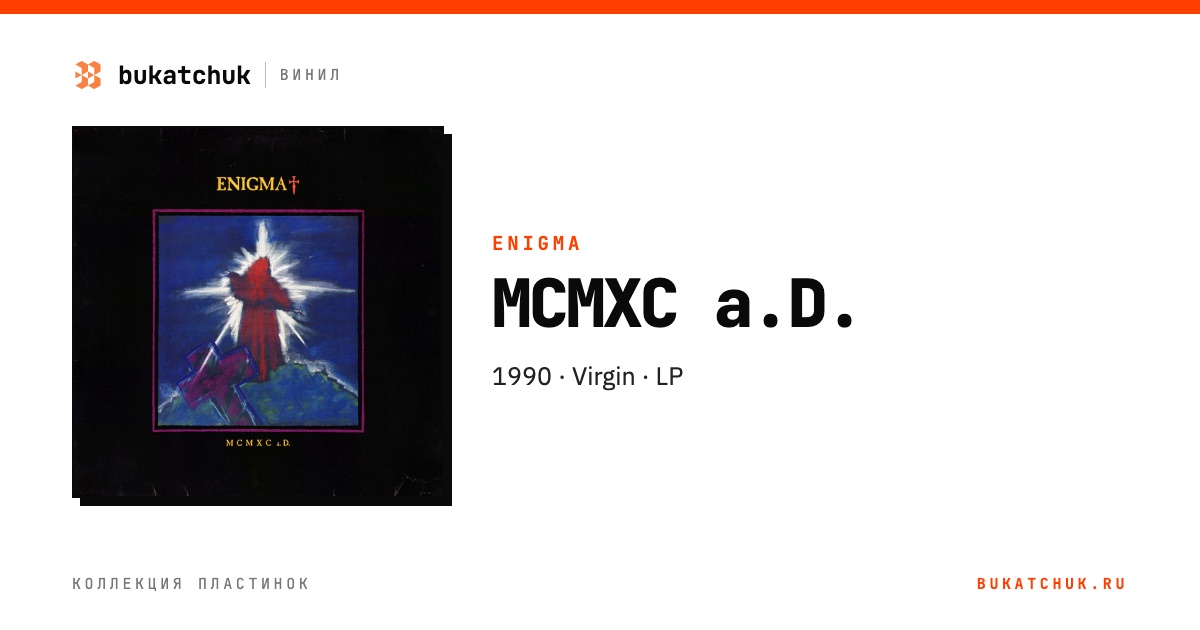
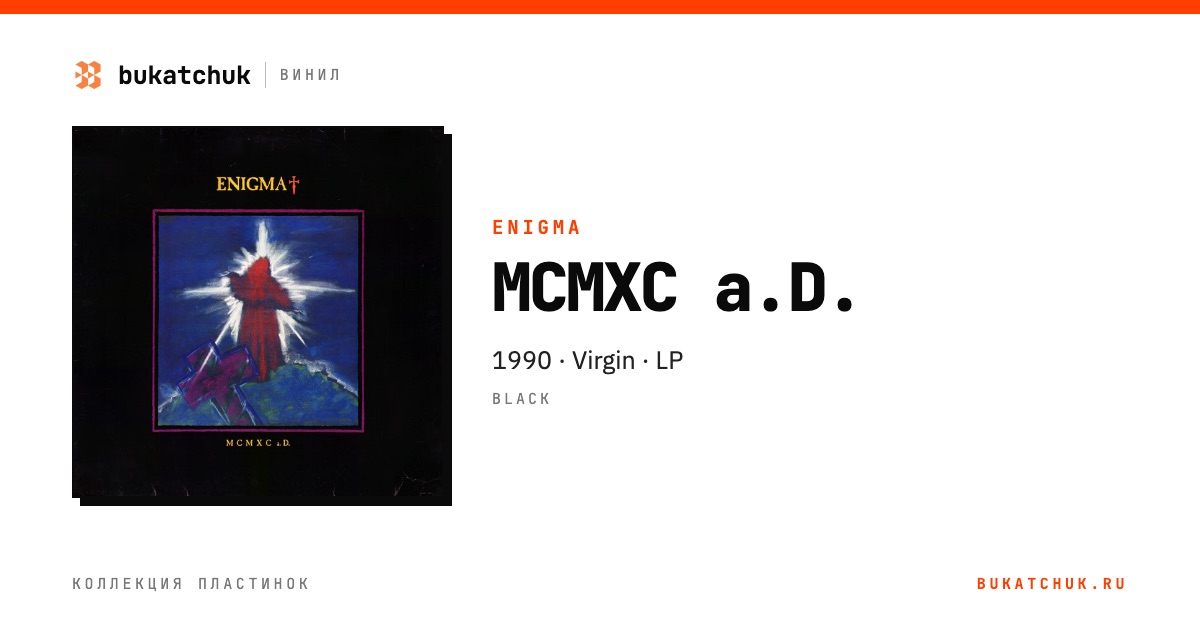
Винил: цвет указан у всех релизов, включая чёрный винил

Changed region(s): [[0.4008, 0.3317, 0.7092, 0.6333]]

diff --git a/.claude/tools/vinyl_add.py b/.claude/tools/vinyl_add.py
@@ -83,7 +83,8 @@ for arg in sys.argv[1:]:
     L=['---','layout: release',f'artist: {q(artist)}',f'title: {q(title)}',f'year: {year}',f'original_year: {oy}',f'released: {d.get("released") or year}',
        f'label: {q(clean(lab["name"]))}',f'catno: {q(lab["catno"].strip())}',f'barcode: {q(barcode)}' if barcode else None,f'country: {q(COUNTRY.get(d.get("country"),d.get("country") or ""))}',
        f'format: {q(fmt)}',f'discs: {qty}']
-    if colors: L.append(f'color: {q(" / ".join(colors))}')
+    # на Discogs цвет указывают, только если он не чёрный; пустое поле означает обычный чёрный винил
+    L.append(f'color: {q(" / ".join(colors) if colors else "Black")}')
     if weight: L.append(f'weight: {q(weight)}')
     if limited: L.append(f'limited: {limited}')
     if feats: L.append('features: ['+', '.join(q(x) for x in feats)+']')

diff --git a/.claude/CLAUDE.md b/.claude/CLAUDE.md
@@ -143,6 +143,7 @@ PATH="$HOME/.rubies/ruby-3.3.0/bin:$PATH" bundle exec jekyll build --destination
 - **Данные об экземпляре** (состояние, цена, где куплена) на сайте не показываются.
 - **Обложки** берутся с Discogs, со страницы выбранного издания.
 - **Превью ссылки** есть у каждого релиза и у общей страницы: картинка 1200×630 в `assets/img/vinyl/og/`, в том же оформлении, что обложки статей, — слева обложка альбома, справа исполнитель, название, год, лейбл и формат. Делается скриптом `python3 .claude/tools/vinyl_og.py`; `vinyl_add.py` вызывает его сам. Поле `image` релиза указывает на эту картинку, поле `cover` — на саму обложку. После правки названия, года или лейбла превью пересоздаётся: `vinyl_og.py <имя-файла>`.
+- **Цвет винила** указан у каждого релиза, в том числе у обычного чёрного: `color: "Black"`. На Discogs цвет пишут, только когда он не чёрный, поэтому пустое поле там означает чёрный винил. Названия цветов остаются как на Discogs, по-английски.
 - **Штрихкод** есть у каждого релиза в поле `barcode` — только цифры, первый штрихкод из 12 или 13 цифр со страницы издания. Он выводится в свойствах релиза и в списке «Каталог» (в списке — одними цифрами, без подписи); каталожный номер выводится только в свойствах. В текстах штрихкод не повторяется.
 - **Блок «История»** стоит после треклиста, одной колонкой с буквицей, как статья. В нём две части:
   - «Об альбоме» (поле `about`) — три-четыре предложения или два-три абзаца: когда вышел, кто участвовал, чем заметен. Пишется только по источнику, ссылка на него кладётся в `about_source`, название источника в `about_source_name` — латиницей, как у `Discogs`: `Wikipedia`, `Sony Music`.

diff --git a/_vinyl/daft-punk-tron-legacy-reconfigured.md b/_vinyl/daft-punk-tron-legacy-reconfigured.md
@@ -11,6 +11,7 @@ barcode: "050087502560"
 country: "Европа"
 format: "2×LP"
 discs: 2
+color: "Black"
 features: ["переиздание", "допечатка"]
 genres: ["Electronic", "Stage & Screen"]
 styles: ["Soundtrack", "Electro", "Electro House", "Progressive House", "Tech House", "Score"]

diff --git a/_vinyl/daft-punk-tron-legacy.md b/_vinyl/daft-punk-tron-legacy.md
@@ -11,6 +11,7 @@ barcode: "0050087502577"
 country: "Европа"
 format: "2×LP"
 discs: 2
+color: "Black"
 features: ["сборник", "переиздание"]
 genres: ["Electronic", "Classical", "Stage & Screen"]
 styles: ["Soundtrack", "House", "Neo-Romantic", "Contemporary"]

diff --git a/_vinyl/daft-punk-random-access-memories.md b/_vinyl/daft-punk-random-access-memories.md
@@ -11,6 +11,7 @@ barcode: "888837168618"
 country: "Великобритания, Европа и США"
 format: "2×LP"
 discs: 2
+color: "Black"
 weight: "180 г"
 genres: ["Electronic", "Funk / Soul", "Pop"]
 styles: ["Disco", "Funk", "Synth-pop", "Electro", "French House"]

diff --git a/_vinyl/daft-punk-alive-2007.md b/_vinyl/daft-punk-alive-2007.md
@@ -11,6 +11,7 @@ barcode: "0190296611964"
 country: "весь мир"
 format: "2×LP"
 discs: 2
+color: "Black"
 features: ["треки сведены", "переиздание", "допечатка"]
 genres: ["Electronic"]
 styles: ["House", "French House"]

diff --git a/_vinyl/enigma-the-cross-of-changes.md b/_vinyl/enigma-the-cross-of-changes.md
@@ -11,6 +11,7 @@ barcode: "724383923618"
 country: "Великобритания и Европа"
 format: "LP"
 discs: 1
+color: "Black"
 genres: ["Electronic"]
 styles: ["New Age", "Downtempo", "Ambient"]
 discogs: "https://www.discogs.com/release/1039995"

diff --git a/_vinyl/daft-punk-human-after-all.md b/_vinyl/daft-punk-human-after-all.md
@@ -11,6 +11,7 @@ barcode: "0190296611902"
 country: "весь мир"
 format: "2×LP"
 discs: 2
+color: "Black"
 features: ["переиздание", "допечатка"]
 genres: ["Electronic"]
 styles: ["House", "Abstract", "Electro", "Experimental"]

diff --git a/_vinyl/daft-punk-homework.md b/_vinyl/daft-punk-homework.md
@@ -11,6 +11,7 @@ barcode: "0190296611926"
 country: "весь мир"
 format: "2×LP"
 discs: 2
+color: "Black"
 features: ["переиздание"]
 genres: ["Electronic"]
 styles: ["House", "Techno", "Disco", "Electro", "French House"]

diff --git a/_vinyl/daft-punk-homework-remixes.md b/_vinyl/daft-punk-homework-remixes.md
@@ -11,6 +11,7 @@ barcode: "5054197177897"
 country: "Европа"
 format: "2×LP"
 discs: 2
+color: "Black"
 features: ["сборник", "лимитированное издание"]
 genres: ["Electronic"]
 styles: ["House"]

diff --git a/_vinyl/daft-punk-discovery.md b/_vinyl/daft-punk-discovery.md
@@ -11,6 +11,7 @@ barcode: "0190296617164"
 country: "Европа"
 format: "2×LP"
 discs: 2
+color: "Black"
 features: ["переиздание"]
 genres: ["Electronic"]
 styles: ["Disco", "House", "Electro", "French House"]
